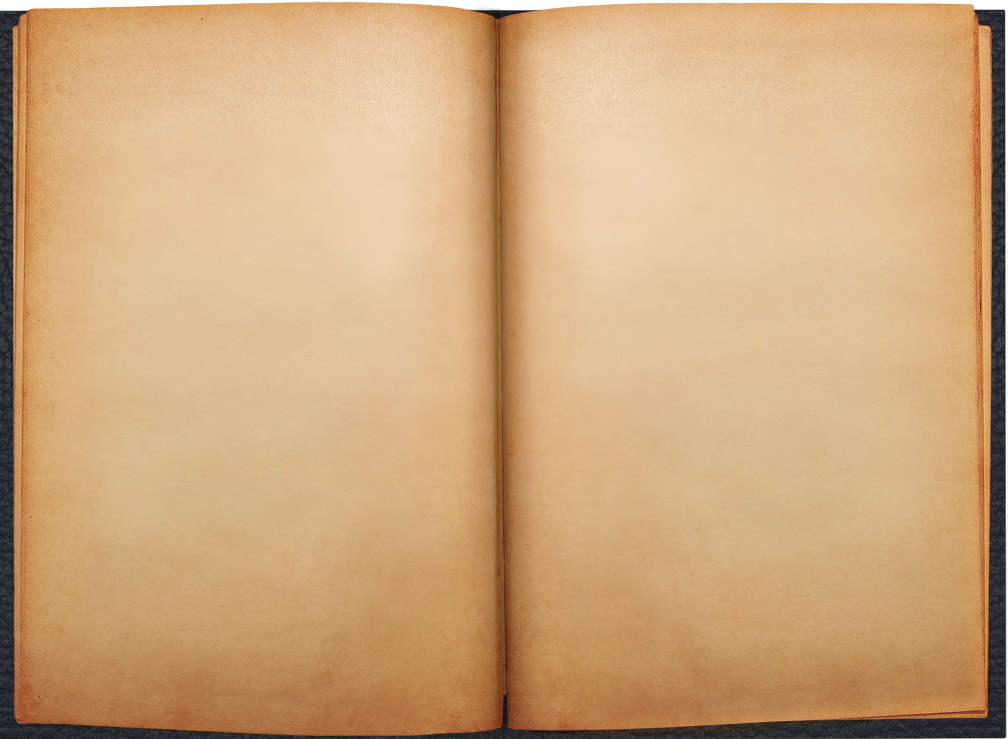
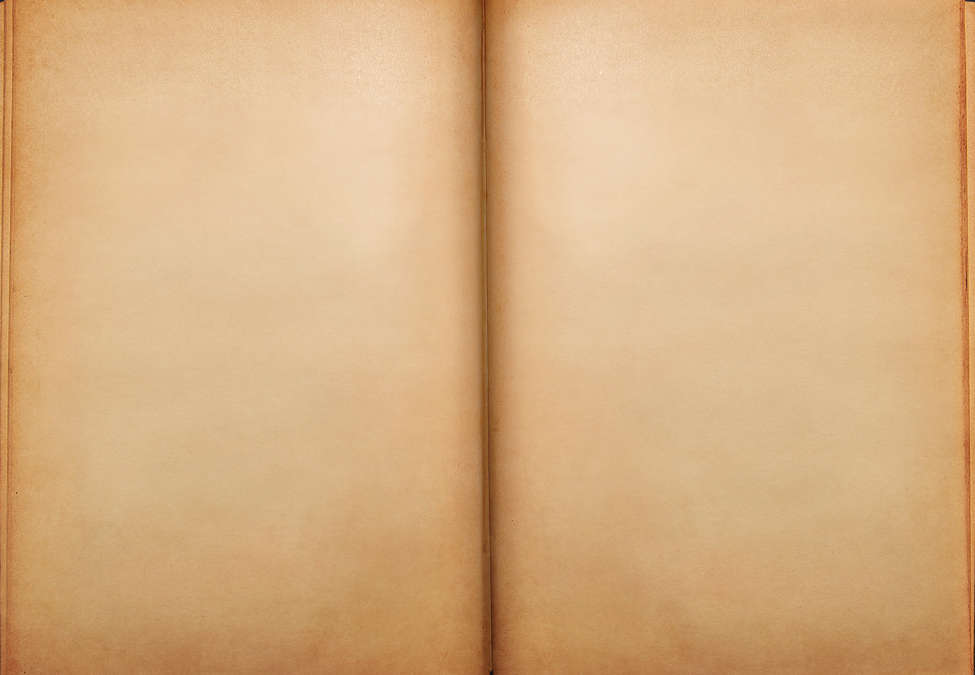
Building the Story Feature

diff --git a/app/assets/stylesheets/bookflip.css b/app/assets/stylesheets/bookflip.css
@@ -203,13 +203,25 @@
     background-size: 100% 100%;
     text-align: center;
 }
+.bb-table-story {
+    width: 100%;
+    height: 100%;
+    background: url(/assets/story_pages.jpg);
+    background-size: 100% 100%;
+    text-align: left;
+}
 
 .bb-table td{
     width:50%;
 }
 
-.bb-table td.text_matter{
+.bb-table-story td{
+    vertical-align: top;
     padding:20px;
+    padding-top:50px;
+    padding-bottom:0px;
+    width:50%;
+    font-size: 14px;
 }
 
 .closer{

diff --git a/app/controllers/games_controller.rb b/app/controllers/games_controller.rb
@@ -126,22 +126,21 @@ class GamesController < ApplicationController
       @game.lore=true
       @game.solved=true
       if @game.save
-        @tome_completion = @game.tome.puzzles.count - @user.games.where('tome_id=? and solved=?', @game.tome, true).count
+        @tome_completion = @game.puzzle.tome.puzzles.count - @user.games.where('solved=?', true).map { |g| g.puzzle }.select { |p| p.tome_id==@game.puzzle.tome.id }.count
         if @tome_completion == 0
-          UserState.create!(user_id: @user.id, tome_id: @game.tome.id)
-          @last_page=StoryPage.find_by_user_id(@user.id).last.num
-          @game.tome.ending.split("||").each_with_index do |e, index|
+          UserState.create!(user_id: @user.id, tome_id: @game.puzzle.tome.id)
+          @last_page=StoryPage.find_all_by_user_id(@user.id).last.num rescue 0
+          @game.puzzle.tome.ending.split("||").each_with_index do |e, index|
             StoryPage.create!(user_id: @user.id, num: (@last_page+index+1), progress: e)
           end
-          if Tome.find_by_sequence_and_chapter(@game.tome.sequence+1, @game.tome.chapter).blank?
-            StoryPage.create!(user_id: @user.id, num: (StoryPage.find_by_user_id(@user.id).last.num+1), progress: "<div class='chapter_end'><a href='/library/#{(@game.tome.chapter+1)}'>Next Chapter</a></div>")
-          else
-            StoryPage.create!(user_id: @user.id, num: (StoryPage.find_by_user_id(@user.id).last.num+1), progress: (@game.tome.sequence+1))
-            @last_page=StoryPage.find_by_user_id(@user.id).last.num
-            @next_tome=Tome.find_by_sequence_and_chapter(@game.tome.sequence+1, @game.tome.chapter)
-            @game.tome.beginning.split("||").each_with_index do |e, index|
-              StoryPage.create!(user_id: @user.id, num: (@last_page+index+1), progress: e)
-            end
+          if Tome.find_by_sequence_and_chapter(@game.puzzle.tome.sequence+1, @game.puzzle.tome.chapter).blank?
+            StoryPage.create!(user_id: @user.id, num: (StoryPage.find_all_by_user_id(@user.id).last.num+1), progress: "<div class='chapter_end'><a href='/library/#{(@game.puzzle.tome.chapter+1)}'>Next Chapter</a></div>")
+          end
+          StoryPage.create!(user_id: @user.id, num: (StoryPage.find_all_by_user_id(@user.id).last.num+1 rescue 1), progress: (@game.puzzle.tome.sequence+1))
+          @last_page=StoryPage.find_all_by_user_id(@user.id).last.num
+          @next_tome=Tome.find_by_sequence_and_chapter(@game.puzzle.tome.sequence+1, @game.puzzle.tome.chapter)
+          @game.puzzle.tome.beginning.split("||").each_with_index do |e, index|
+            StoryPage.create!(user_id: @user.id, num: (@last_page+index+1), progress: e)
           end
         end
       end

diff --git a/app/models/user.rb b/app/models/user.rb
@@ -29,4 +29,22 @@ class User < ActiveRecord::Base
     end
   end
 
+  after_create :create_story_pages
+
+  def create_story_pages
+    @tome=Tome.first
+    UserState.create!(user_id: id, tome_id: @tome.id)
+    StoryPage.create!(user_id: id, num: 1, progress: @tome.id, chapter_break: true)
+    @last_page=self.story_pages.last.num
+    @tome.ending.split("||").each_with_index do |e, index|
+      StoryPage.create!(user_id: id, num: (@last_page+index+1), progress: e)
+    end
+    @next_tome=Tome.find_by_sequence(2)
+    StoryPage.create!(user_id: id, num: 1, progress: @tome.id, chapter_break: true)
+    @last_page=self.story_pages.last.num
+    @next_tome.beginning.split("||").each_with_index do |e, index|
+      StoryPage.create!(user_id: id, num: (@last_page+index+1), progress: e)
+    end
+  end
+
 end

diff --git a/app/controllers/welcome_controller.rb b/app/controllers/welcome_controller.rb
@@ -7,7 +7,7 @@ class WelcomeController < ApplicationController
     @last_tome=current_user.user_state.tome rescue 0
     @tomes=Tome.where("chapter=?", params[:chapter]).all.select{|t| (t.sequence<((@last_tome.sequence rescue 0) +2))}.map{|t| t}
 
-    gon.help_on = ((current_user.sign_in_count == 1) ? false : true)
+    gon.help_on = ((current_user.sign_in_count == 1) ? true : false)
 
[1 lines of base64/hex data omitted]
 

diff --git a/app/controllers/tomes_controller.rb b/app/controllers/tomes_controller.rb
@@ -1,9 +1,11 @@
 class TomesController < ApplicationController
   def show
     @tome=Tome.find(params[:id])
+    UserState.find_or_create_by_tome_id_and_user_id(Tome.find_by_sequence(@tome.sequence-1).id,current_user.id)
     end
   def knowledge
     @tome=Tome.find(params[:id])
+    @next_tome=Tome.find_by_sequence(@tome.sequence+1)
     @story_pages=current_user.story_pages.all
   end
 end

diff --git a/app/controllers/application_controller.rb b/app/controllers/application_controller.rb
@@ -10,7 +10,7 @@ class ApplicationController < ActionController::Base
   end
 
   def after_sign_in_path_for(resource)
-    library_path(current_user.user_state.tome.chapter)
+    library_path(current_user.user_state.tome.chapter rescue 1)
   end
 
 
